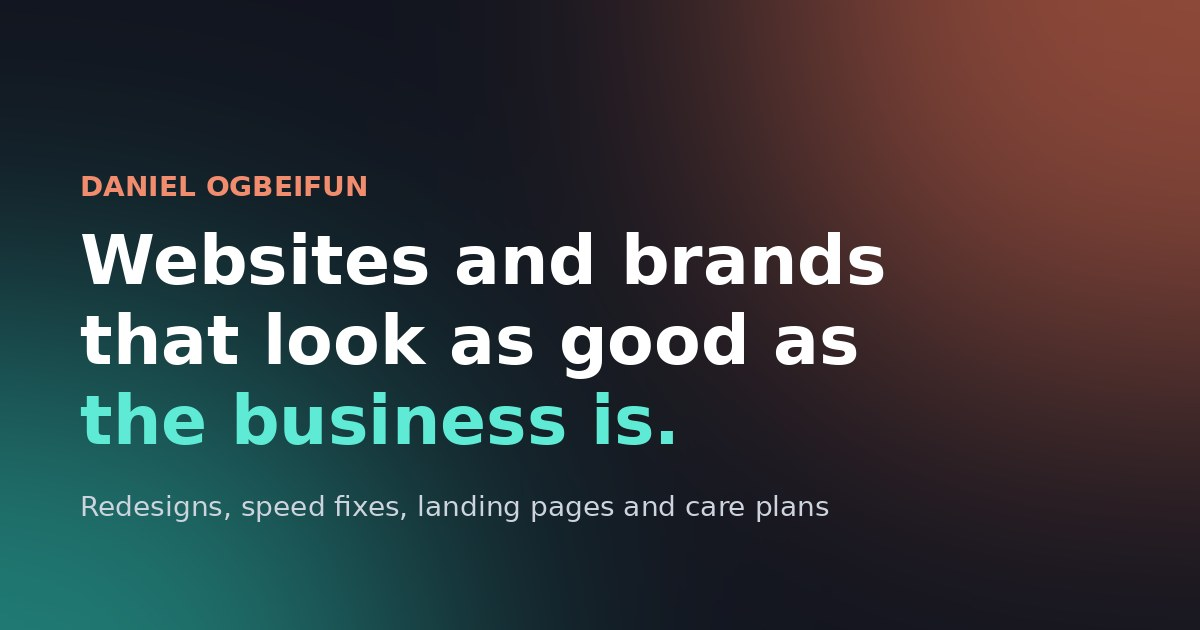
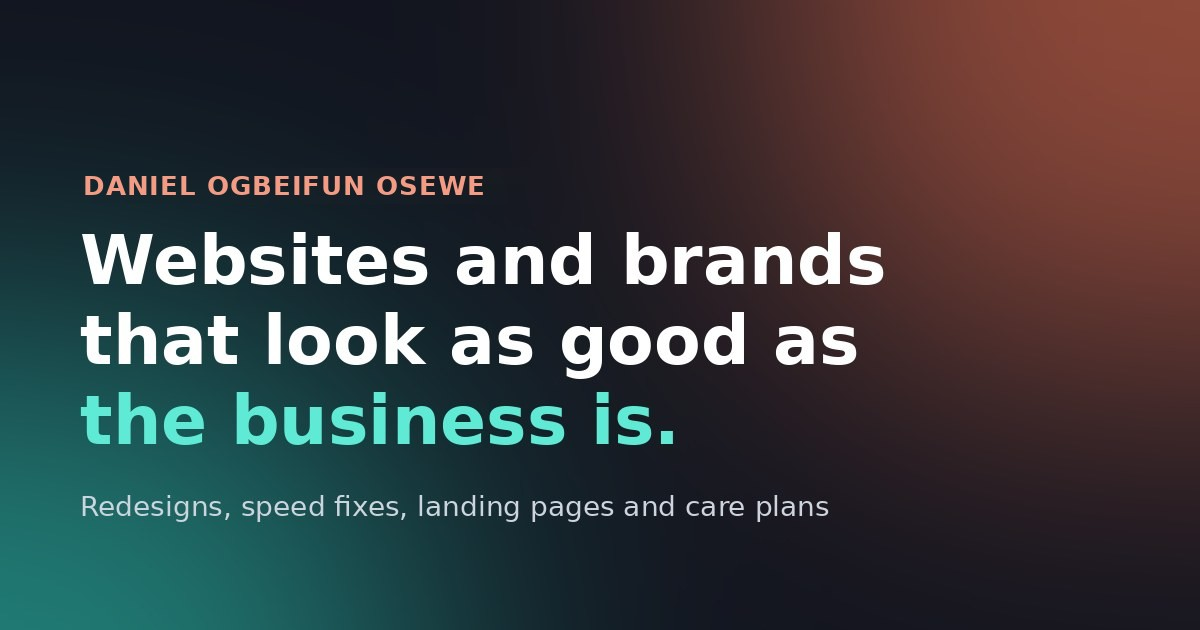
Use Daniel's full name, Daniel Ogbeifun Osewe
Page titles, link preview titles, author tag, fallbacks and the preview
image now carry the full name, so all three portfolios introduce him the
same way. Titles use "|" instead of an em dash.

Claude-Session: https://claude.ai/code/session_01JA4B1AzuvpoFcjHnArfcL4

Changed region(s): [[0.0617, 0.2714, 0.4008, 0.3317]]

diff --git a/src/routes/auth.tsx b/src/routes/auth.tsx
@@ -8,7 +8,7 @@ import { toast } from "sonner";
 
 export const Route = createFileRoute("/auth")({
   ssr: false,
-  head: () => ({ meta: [{ title: "Sign In — Daniel Ogbeifun" }] }),
+  head: () => ({ meta: [{ title: "Sign in | Daniel Ogbeifun Osewe" }] }),
   component: AuthPage,
 });
 
@@ -31,7 +31,8 @@ function AuthPage() {
     try {
       if (mode === "signup") {
         const { error } = await supabase.auth.signUp({
-          email, password,
+          email,
+          password,
           options: { emailRedirectTo: `${window.location.origin}/admin` },
         });
         if (error) throw error;
@@ -44,7 +45,9 @@ function AuthPage() {
       }
     } catch (err: any) {
       toast.error(err?.message ?? "Authentication failed");
-    } finally { setLoading(false); }
+    } finally {
+      setLoading(false);
+    }
   }
 
   return (
@@ -58,8 +61,21 @@ function AuthPage() {
         </CardHeader>
         <CardContent>
           <form onSubmit={onSubmit} className="space-y-4">
-            <Input type="email" placeholder="Email" required value={email} onChange={(e) => setEmail(e.target.value)} />
-            <Input type="password" placeholder="Password" required minLength={6} value={password} onChange={(e) => setPassword(e.target.value)} />
+            <Input
+              type="email"
+              placeholder="Email"
+              required
+              value={email}
+              onChange={(e) => setEmail(e.target.value)}
+            />
+            <Input
+              type="password"
+              placeholder="Password"
+              required
+              minLength={6}
+              value={password}
+              onChange={(e) => setPassword(e.target.value)}
+            />
             <Button type="submit" className="w-full" disabled={loading}>
               {loading ? "…" : mode === "signin" ? "Sign in" : "Sign up"}
             </Button>
@@ -71,7 +87,9 @@ function AuthPage() {
             {mode === "signin" ? "No account? Sign up" : "Have an account? Sign in"}
           </button>
           <div className="mt-4 text-center">
-            <Link to="/" className="text-xs text-muted-foreground hover:text-foreground">← Back to site</Link>
+            <Link to="/" className="text-xs text-muted-foreground hover:text-foreground">
+              ← Back to site
+            </Link>
           </div>
         </CardContent>
       </Card>

diff --git a/src/routes/__root.tsx b/src/routes/__root.tsx
@@ -78,14 +78,14 @@ export const Route = createRootRouteWithContext<{ queryClient: QueryClient }>()(
     meta: [
       { charSet: "utf-8" },
       { name: "viewport", content: "width=device-width, initial-scale=1" },
-      { title: "Daniel Ogbeifun — Digital Marketer & Brand Strategist" },
+      { title: "Daniel Ogbeifun Osewe | Digital Marketer & Brand Strategist" },
       { name: "description", content: "Strategy, design, and marketing that closes the gap between how valuable brands are and how valuable they look." },
-      { name: "author", content: "Daniel Ogbeifun" },
-      { property: "og:title", content: "Daniel Ogbeifun — Digital Marketer & Brand Strategist" },
+      { name: "author", content: "Daniel Ogbeifun Osewe" },
+      { property: "og:title", content: "Daniel Ogbeifun Osewe | Digital Marketer & Brand Strategist" },
       { property: "og:description", content: "Strategy, design, and marketing that closes the gap between how valuable brands are and how valuable they look." },
       { property: "og:type", content: "website" },
       { name: "twitter:card", content: "summary_large_image" },
-      { name: "twitter:title", content: "Daniel Ogbeifun — Digital Marketer & Brand Strategist" },
+      { name: "twitter:title", content: "Daniel Ogbeifun Osewe | Digital Marketer & Brand Strategist" },
       { name: "twitter:description", content: "Strategy, design, and marketing that closes the gap between how valuable brands are and how valuable they look." },
       { property: "og:image", content: "https://pub-bb2e103a32db4e198524a2e9ed8f35b4.r2.dev/7786ec8c-946f-4cbc-9014-8f84fa12ee21/id-preview-c8ec2e40--643b747a-d29f-4b89-9e10-27d84822bc09.lovable.app-1783465430349.png" },
       { name: "twitter:image", content: "https://pub-bb2e103a32db4e198524a2e9ed8f35b4.r2.dev/7786ec8c-946f-4cbc-9014-8f84fa12ee21/id-preview-c8ec2e40--643b747a-d29f-4b89-9e10-27d84822bc09.lovable.app-1783465430349.png" },

diff --git a/src/components/portfolio-sections.tsx b/src/components/portfolio-sections.tsx
@@ -366,7 +366,7 @@ export function PortfolioSections({ data }: { data: Data }) {
             href="#top"
             className="font-display text-lg font-bold tracking-tight transition-colors hover:text-primary"
           >
-            {site.name ?? "Daniel Ogbeifun"}
+            {site.name ?? "Daniel Ogbeifun Osewe"}
           </a>
           <nav className="hidden gap-6 text-sm text-muted-foreground md:flex">
             {[
@@ -459,7 +459,7 @@ export function PortfolioSections({ data }: { data: Data }) {
                 <div className="relative overflow-hidden rounded-2xl shadow-[var(--shadow-elegant)] ring-1 ring-border/60">
                   <img
                     src={about.avatar_url}
-                    alt="Daniel Ogbeifun"
+                    alt="Daniel Ogbeifun Osewe"
                     className="aspect-[4/5] h-full w-full object-cover transition-transform duration-[1200ms] ease-out group-hover:scale-[1.04]"
                   />
                   <div className="pointer-events-none absolute inset-0 bg-gradient-to-t from-background/70 via-transparent to-transparent" />
@@ -796,7 +796,7 @@ export function PortfolioSections({ data }: { data: Data }) {
 
       {/* FOOTER */}
       <footer className="border-t border-border/40 py-8 text-center text-sm text-muted-foreground">
-        © {new Date().getFullYear()} {site.name ?? "Daniel Ogbeifun"}. All rights reserved.
+        © {new Date().getFullYear()} {site.name ?? "Daniel Ogbeifun Osewe"}. All rights reserved.
       </footer>
     </div>
   );

diff --git a/src/routes/index.tsx b/src/routes/index.tsx
@@ -10,13 +10,13 @@ export const Route = createFileRoute("/")({
   loader: ({ context }) => context.queryClient.ensureQueryData(portfolioQuery()),
   head: () => ({
     meta: [
-      { title: "Daniel Ogbeifun — Digital Marketer & Brand Strategist" },
+      { title: "Daniel Ogbeifun Osewe | Digital Marketer & Brand Strategist" },
       {
         name: "description",
         content:
           "Strategy, design, and marketing that closes the gap between how valuable brands are and how valuable they look.",
       },
-      { property: "og:title", content: "Daniel Ogbeifun — Digital Marketer & Brand Strategist" },
+      { property: "og:title", content: "Daniel Ogbeifun Osewe | Digital Marketer & Brand Strategist" },
       {
         property: "og:description",
         content:
@@ -30,7 +30,7 @@ export const Route = createFileRoute("/")({
       { property: "og:image:height", content: "630" },
       { property: "og:url", content: "https://brandglow-portfolio.lovable.app/" },
       { name: "twitter:card", content: "summary_large_image" },
-      { name: "twitter:title", content: "Daniel Ogbeifun — Digital Marketer & Brand Strategist" },
+      { name: "twitter:title", content: "Daniel Ogbeifun Osewe | Digital Marketer & Brand Strategist" },
       { name: "twitter:image", content: "https://brandglow-portfolio.lovable.app/og-image.jpg" },
     ],
   }),

diff --git a/src/routes/admin.tsx b/src/routes/admin.tsx
@@ -11,7 +11,7 @@ import { CollectionEditor, type FieldConfig } from "@/components/admin/collectio
 
 export const Route = createFileRoute("/admin")({
   ssr: false,
-  head: () => ({ meta: [{ title: "Admin — Daniel Ogbeifun" }] }),
+  head: () => ({ meta: [{ title: "Admin | Daniel Ogbeifun Osewe" }] }),
   component: Admin,
 });
 
